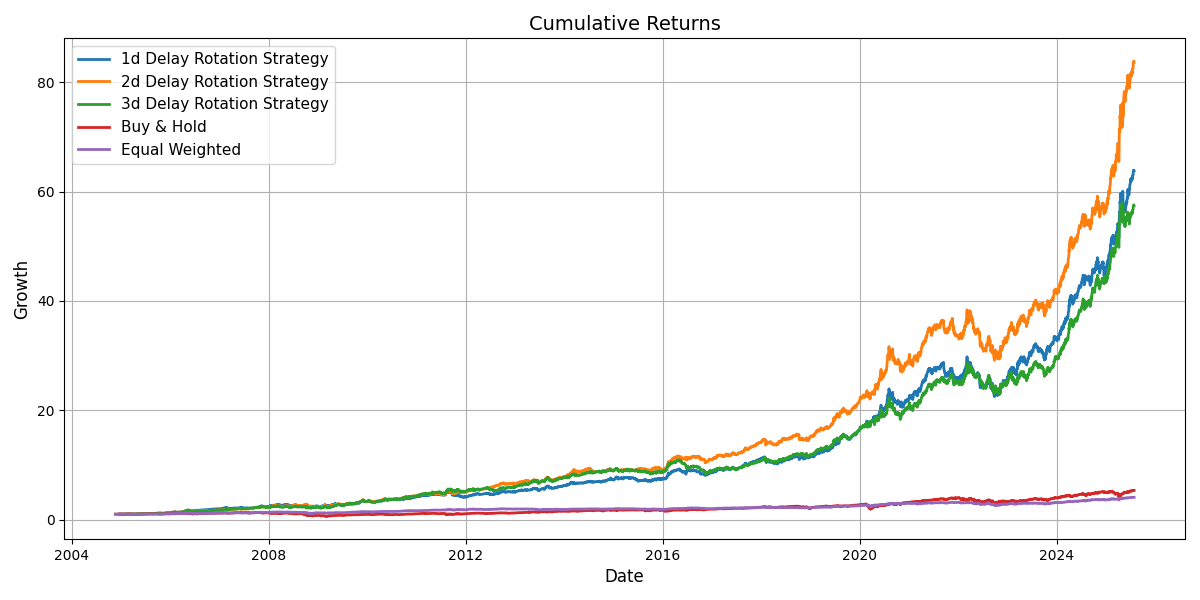
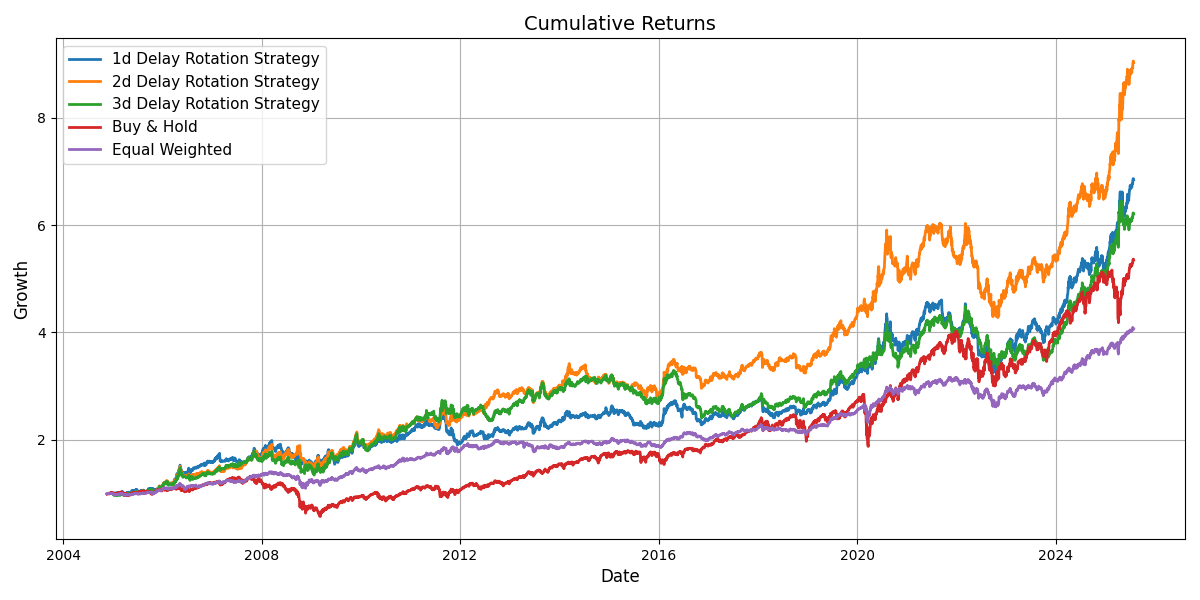
fix(backtest.py): added current assset check to ensure trading only occurs when asset changes

diff --git a/strategies/rotation.py b/strategies/rotation.py
@@ -25,13 +25,23 @@ def generate_rotation_strategy(assets, window = 21, max_delay = 3):
 
         # Calculating the strategy returns based on aligned signal factoring in slippage
         strategy_returns = []
+        current_asset = None 
+
         for date, asset in aligned_signal.items():
 
             # Ensures any NaNs do not cause the entire backtest to fail 
             try:
-                raw_return = daily_returns.loc[date, asset] # No slippage (float)
-                slippage_return = apply_slippage(pd.Series([1 + raw_return])).iloc[0] - 1 # Converts float>>list>>series and applies slippage 
-                strategy_returns.append(slippage_return)
+                # Ensures trading is only done when asset changes and not when held
+                if current_asset is None or asset != current_asset:
+                        
+                    raw_return = daily_returns.loc[date, asset] # No slippage (float)
+                    slippage_return = apply_slippage(pd.Series([1 + raw_return])).iloc[0] - 1 # Converts float>>list>>series and applies slippage 
+                    strategy_returns.append(slippage_return)
+                    current_asset = asset
+                else: 
+                    # Continue holding the same asset (no trades)
+                    held_return = daily_returns.loc[date, current_asset]
+                    strategy_returns.append(held_return)
 
             except KeyError:
                 continue
